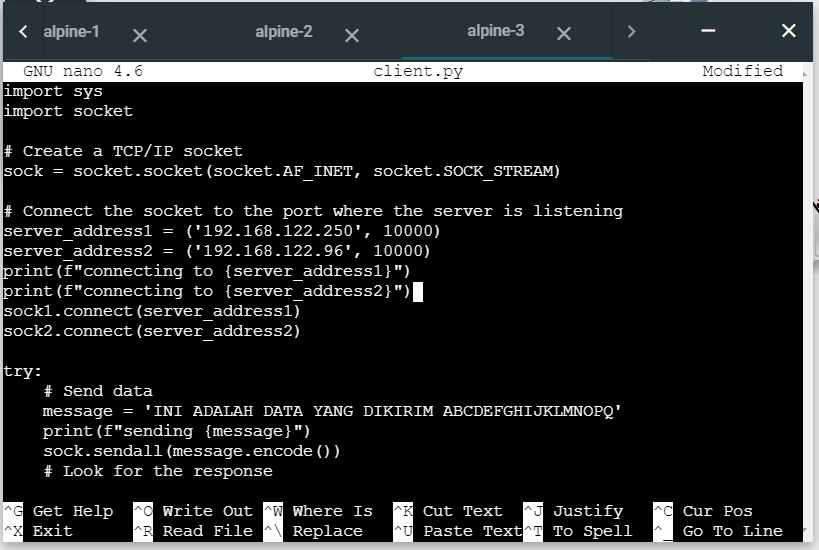
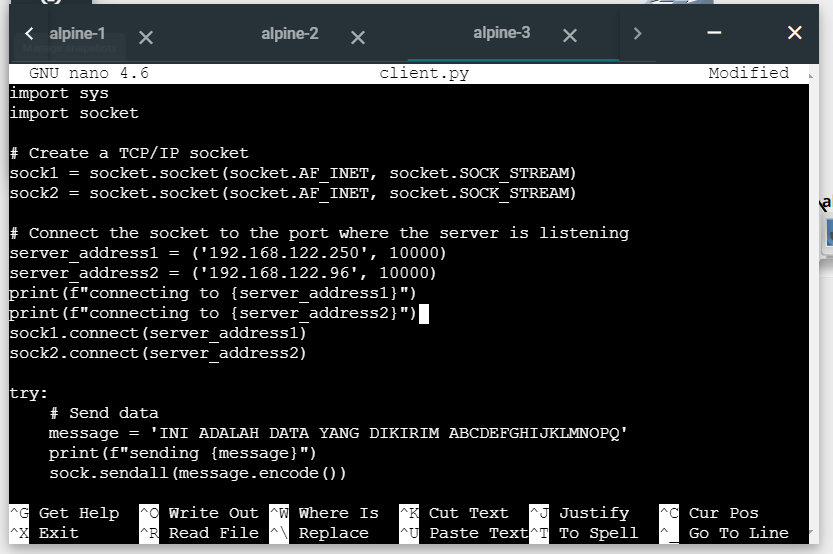
no4 setengah jalan

Changed region(s): [[0.0, 0.0, 1.0, 1.0]]

diff --git a/progjar1/README.md b/progjar1/README.md
@@ -40,7 +40,7 @@ Setelah di clone pada tiap node
 
 ### Jalankan program server.py di alpine-1 dan alpine-2, jalankan program client.py di alpine 3
 
-Sebelum menjalankan program server.py pada alpine-1 dan alpine-2, ubah ip pada masing program menjadi ip alpine-1 dan alpine-2
+Sebelum menjalankan program server.py pada alpine-1 dan alpine-2, ubah ip pada masing program menjadi ip alpine-1 dan alpine-2, untuk lebih lengkap dapat melihat file server.py
 
 alpine-1 menjadi seperti berikut
 
@@ -50,7 +50,7 @@ alpine-2 menjadi seperti berikut
 
 ![](https://github.com/Asmophel/Pemrograman_Jaringan_E/blob/master/progjar1/img1/7.PNG)
 
-lalu, sebelum menjalankan program client.py pada alpine-3, ubah server_address, print, dan socket sesuai ip pada alpine-1 dan alpine-2, seperti berikut
+lalu, sebelum menjalankan program client.py pada alpine-3, ubah server_address, print, socket, dan response sesuai ip pada alpine-1 dan alpine-2, untuk lebih lengkap dapat melihat file client.py
 
 ![](https://github.com/Asmophel/Pemrograman_Jaringan_E/blob/master/progjar1/img1/8.PNG)
 
